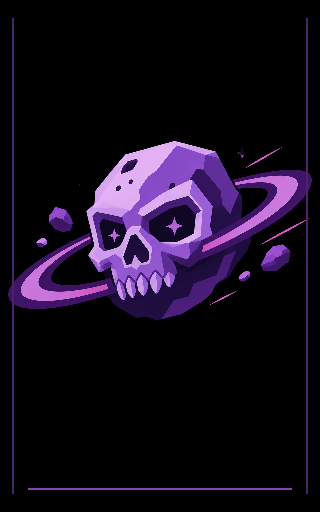
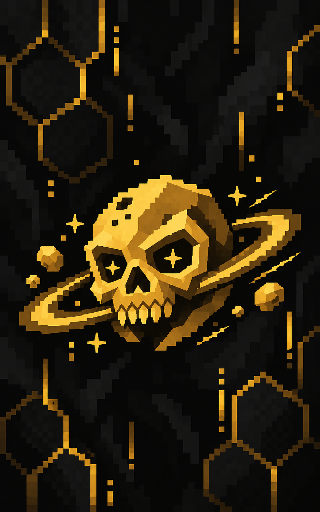
Add six-face gold owner cape and remove creator sigil

diff --git a/tools/GenerateCreatorCape.java b/tools/GenerateCreatorCape.java
@@ -6,65 +6,117 @@ import java.nio.file.Files;
 import java.nio.file.Path;
 import javax.imageio.ImageIO;
 
-/** Packs the original logo into vanilla cape UVs and bakes a seamless shimmer.
- * Run from the project root: java tools/GenerateCreatorCape.java
+/** Packs six cape faces into vanilla UVs and bakes a four-second gold shimmer.
+ * Run from the project root: java -Djava.awt.headless=true tools/GenerateCreatorCape.java
  */
 class GenerateCreatorCape {
     private static final int SCALE = 32;
     private static final int WIDTH = 10 * SCALE;
     private static final int HEIGHT = 16 * SCALE;
+    private static final Path SOURCES = Path.of("assets/creator");
+
+    private static BufferedImage resize(String name, int width, int height) throws Exception {
+        BufferedImage image = ImageIO.read(SOURCES.resolve(name).toFile());
+        BufferedImage result = new BufferedImage(width, height, BufferedImage.TYPE_INT_ARGB);
+        Graphics2D graphics = result.createGraphics();
+        graphics.setColor(Color.BLACK);
+        graphics.fillRect(0, 0, width, height);
+        graphics.setRenderingHint(RenderingHints.KEY_INTERPOLATION, RenderingHints.VALUE_INTERPOLATION_BICUBIC);
+        graphics.drawImage(image, 0, 0, width, height, null);
+        graphics.dispose();
+        return result;
+    }
+
+    private static BufferedImage ownerEdge() {
+        BufferedImage edge = new BufferedImage(SCALE, HEIGHT, BufferedImage.TYPE_INT_ARGB);
+        Graphics2D graphics = edge.createGraphics();
+        graphics.setColor(new Color(10, 9, 7));
+        graphics.fillRect(0, 0, SCALE, HEIGHT);
+        graphics.setColor(new Color(99, 65, 12));
+        graphics.fillRect(1, 0, 1, HEIGHT);
+        graphics.fillRect(SCALE - 2, 0, 1, HEIGHT);
+        // Explicit block glyphs avoid machine-dependent fonts. Five tall letters fill
+        // 484 of 512 pixels, with a 14-pixel margin at each end.
+        String[][] letters = {
+                {"01110", "11011", "11011", "11011", "11011", "11011", "01110"},
+                {"10001", "10001", "10001", "10101", "10101", "11011", "10001"},
+                {"10001", "11001", "11001", "10101", "10011", "10011", "10001"},
+                {"11111", "10000", "10000", "11110", "10000", "10000", "11111"},
+                {"11110", "10001", "10001", "11110", "10100", "10010", "10001"}
+        };
+        for (int letter = 0; letter < 5; letter++) {
+            int top = 14 + letter * 100;
+            for (int row = 0; row < 7; row++) for (int col = 0; col < 5; col++) {
+                if (letters[letter][row].charAt(col) != '1') continue;
+                graphics.setColor(new Color(95, 57, 7));
+                graphics.fillRect(7 + col * 4, top + row * 12 + 2, 4, 12);
+                for (int y = 0; y < 12; y++) {
+                    double shine = (Math.cos((top + row * 12 + y) * 0.025) + 1) / 2;
+                    graphics.setColor(new Color(199 + (int) (56 * shine), 139 + (int) (67 * shine), 27 + (int) (39 * shine)));
+                    graphics.fillRect(6 + col * 4, top + row * 12 + y, 4, 1);
+                }
+            }
+        }
+        graphics.dispose();
+        return edge;
+    }
+
+    private static BufferedImage cap(boolean bottom) {
+        BufferedImage image = new BufferedImage(WIDTH, SCALE, BufferedImage.TYPE_INT_ARGB);
+        Graphics2D graphics = image.createGraphics();
+        graphics.setColor(new Color(10, 9, 7));
+        graphics.fillRect(0, 0, WIDTH, SCALE);
+        graphics.setColor(new Color(108, 71, 12));
+        graphics.fillRect(0, 3, WIDTH, 2);
+        graphics.fillRect(0, SCALE - 5, WIDTH, 2);
+        for (int x = 0; x < WIDTH; x += 32) {
+            graphics.setColor(new Color(224, 163, 32));
+            int center = bottom ? SCALE - 13 : 8;
+            graphics.fillRect(x + 12, center, 8, 8);
+        }
+        graphics.dispose();
+        return image;
+    }
+
+    private static void pack(BufferedImage atlas, BufferedImage face, int u, int v, int frame) {
+        for (int y = 0; y < face.getHeight(); y++) for (int x = 0; x < face.getWidth(); x++) {
+            int rgb = face.getRGB(x, y);
+            int r = (rgb >>> 16) & 255, g = (rgb >>> 8) & 255, b = rgb & 255;
+            double phase = frame * Math.PI * 2 / 16 - x * 0.01125 - y * 0.00625;
+            double highlight = Math.pow((Math.cos(phase) + 1) / 2, 10);
+            // Gold brightens towards warm pale gold; charcoal remains untouched.
+            double strength = r > 90 && r > b * 1.4 && g > b * 1.2 ? 0.12 * highlight : 0;
+            r += (int) ((255 - r) * strength);
+            g += (int) ((226 - g) * strength);
+            b += (int) ((112 - b) * strength);
+            atlas.setRGB(u * SCALE + x, v * SCALE + y, 0xFF000000 | (r << 16) | (g << 8) | b);
+        }
+    }
 
     public static void main(String[] args) throws Exception {
-        BufferedImage logo = ImageIO.read(Path.of("assets/creator/original-logo.png").toFile());
-        BufferedImage panel = new BufferedImage(WIDTH, HEIGHT, BufferedImage.TYPE_INT_ARGB);
-        Graphics2D graphics = panel.createGraphics();
-        try {
-            graphics.setColor(Color.BLACK);
-            graphics.fillRect(0, 0, WIDTH, HEIGHT);
-            graphics.setRenderingHint(RenderingHints.KEY_INTERPOLATION, RenderingHints.VALUE_INTERPOLATION_BICUBIC);
-            // The supplied image has white outer margins. Use the original black-backed
-            // logo rectangle, preserving the artwork's aspect ratio and smooth details.
-            int left = 64, top = 258, right = 1197, bottom = 927;
-            int logoWidth = WIDTH - 16;
-            int logoHeight = (int) Math.round(logoWidth * (bottom - top) / (double) (right - left));
-            int logoY = (HEIGHT - logoHeight) / 2 - 25;
-            graphics.drawImage(logo, 8, logoY, 8 + logoWidth, logoY + logoHeight,
-                    left, top, right, bottom, null);
-            graphics.setColor(new Color(77, 34, 109));
-            graphics.fillRect(12, 18, 2, HEIGHT - 36);
-            graphics.fillRect(WIDTH - 14, 18, 2, HEIGHT - 36);
-            graphics.setColor(new Color(134, 69, 176));
-            graphics.fillRect(28, HEIGHT - 24, WIDTH - 56, 2);
-        } finally {
-            graphics.dispose();
-        }
-        ImageIO.write(panel, "png", Path.of("assets/creator/cape-panel.png").toFile());
+        BufferedImage front = resize("front.png", WIDTH, HEIGHT);
+        BufferedImage back = resize("back.png", WIDTH, HEIGHT);
+        BufferedImage edge = ownerEdge(), top = cap(false), bottom = cap(true);
+        ImageIO.write(front, "png", SOURCES.resolve("cape-panel.png").toFile());
+        ImageIO.write(edge, "png", SOURCES.resolve("left.png").toFile());
+        ImageIO.write(edge, "png", SOURCES.resolve("right.png").toFile());
+        ImageIO.write(top, "png", SOURCES.resolve("top.png").toFile());
+        ImageIO.write(bottom, "png", SOURCES.resolve("bottom.png").toFile());
         Path output = Path.of("src/main/resources/assets/axial_cosmetics/textures/entity");
         Files.createDirectories(output);
         for (int frame = 0; frame < 16; frame++) {
             BufferedImage atlas = new BufferedImage(64 * SCALE, 32 * SCALE, BufferedImage.TYPE_INT_ARGB);
-            Graphics2D background = atlas.createGraphics();
-            background.setColor(Color.BLACK);
-            background.fillRect(0, 0, atlas.getWidth(), atlas.getHeight());
-            background.dispose();
-            for (int y = 0; y < HEIGHT; y++) for (int x = 0; x < WIDTH; x++) {
-                int rgb = panel.getRGB(x, y);
-                int r = (rgb >>> 16) & 255, g = (rgb >>> 8) & 255, b = rgb & 255;
-                // Only the violet artwork catches the moving light; fabric stays black.
-                double phase = frame * Math.PI * 2 / 16 - x * 0.01125 - y * 0.00625;
-                double highlight = Math.pow((Math.cos(phase) + 1) / 2, 10);
-                double strength = b > 55 && b > g * 1.15 ? 0.16 * highlight : 0;
-                r += (int) ((255 - r) * strength);
-                g += (int) ((225 - g) * strength);
-                b += (int) ((255 - b) * strength);
-                int color = 0xFF000000 | (r << 16) | (g << 8) | b;
-                atlas.setRGB(SCALE + x, SCALE + y, color);
-                atlas.setRGB(12 * SCALE + x, SCALE + y, color);
-                if (x < SCALE) atlas.setRGB(x, SCALE + y, color);
-                if (x >= WIDTH - SCALE) atlas.setRGB(11 * SCALE + x - (WIDTH - SCALE), SCALE + y, color);
-                if (y < SCALE) atlas.setRGB(SCALE + x, y, color);
-                if (y >= HEIGHT - SCALE) atlas.setRGB(11 * SCALE + x, y - (HEIGHT - SCALE), color);
-            }
+            Graphics2D graphics = atlas.createGraphics();
+            graphics.setColor(Color.BLACK);
+            graphics.fillRect(0, 0, atlas.getWidth(), atlas.getHeight());
+            graphics.dispose();
+            // Cape model rotates its cuboid by 180 degrees: north is the outward back.
+            pack(atlas, back, 1, 1, frame);
+            pack(atlas, front, 12, 1, frame);
+            pack(atlas, edge, 0, 1, frame);
+            pack(atlas, edge, 11, 1, frame);
+            pack(atlas, top, 1, 0, frame);
+            pack(atlas, bottom, 11, 0, frame);
             String suffix = frame == 0 ? "" : "_" + frame;
             ImageIO.write(atlas, "png", output.resolve("creator_cape" + suffix + ".png").toFile());
         }

diff --git a/src/test/java/com/axial/cosmetics/client/CreatorCosmeticsTest.java b/src/test/java/com/axial/cosmetics/client/CreatorCosmeticsTest.java
@@ -24,7 +24,7 @@ class CreatorCosmeticsTest {
         assertTrue(CreatorCosmetics.hasCreatorCape(result));
     }
 
-    @Test void otherPlayersKeepTheirOwnCosmeticsAndDoNotGetSigil() {
+    @Test void otherPlayersKeepTheirOwnCosmetics() {
         var original = new SkinTextures(texture("skin"), texture("cape"), null, PlayerSkinType.WIDE, false);
         assertSame(original, CreatorCosmetics.applyCape(UUID.fromString("6a9cccc8-8e00-4a73-bd37-1121f81b0675"), original));
         assertFalse(CreatorCosmetics.hasCreatorCape(original));
@@ -54,12 +54,4 @@ class CreatorCosmeticsTest {
         assertEquals(15, CreatorCosmetics.frameIndex(-1));
     }
 
-    @Test void sigilTravelsAlongSquareRatherThanCuttingAcrossCorners() {
-        assertArrayEquals(new float[]{-5.5f, -5.5f}, CreatorSigilFeatureRenderer.perimeterPosition(0));
-        assertArrayEquals(new float[]{0, -5.5f}, CreatorSigilFeatureRenderer.perimeterPosition(20));
-        assertArrayEquals(new float[]{5.5f, -5.5f}, CreatorSigilFeatureRenderer.perimeterPosition(40));
-        assertArrayEquals(new float[]{5.5f, 5.5f}, CreatorSigilFeatureRenderer.perimeterPosition(80));
-        assertArrayEquals(new float[]{-5.5f, 5.5f}, CreatorSigilFeatureRenderer.perimeterPosition(120));
-        assertArrayEquals(CreatorSigilFeatureRenderer.perimeterPosition(0), CreatorSigilFeatureRenderer.perimeterPosition(160));
-    }
 }

diff --git a/src/main/java/com/axial/cosmetics/AxialCosmetics.java b/src/main/java/com/axial/cosmetics/AxialCosmetics.java
@@ -182,7 +182,6 @@ public class AxialCosmetics implements ClientModInitializer {
             LivingEntityFeatureRendererRegistrationCallback.EVENT.register((entityType, entityRenderer, registrationHelper, context) -> {
                 if (entityRenderer instanceof PlayerEntityRenderer playerRenderer) {
                     registrationHelper.register(new CosmeticFeatureRenderer(playerRenderer, COSMETIC_MANAGER));
-                    registrationHelper.register(new com.axial.cosmetics.client.CreatorSigilFeatureRenderer(playerRenderer));
                 }
             });
         } catch (Throwable t) {

diff --git a/assets/creator/README.md b/assets/creator/README.md
@@ -1,13 +1,39 @@
 # Creator cape
 
-`original-logo.png` is the owner's original supplied skull-and-orbit logo,
-retained without redrawing or pixel-art conversion. `cape-panel.png` places that
-artwork on black fabric with restrained violet trim. The white outer margins
-are omitted when packing the supplied logo; its aspect ratio is preserved.
+The cape has six independently authored faces:
+
+- `front.png`: the owner's supplied black-and-gold skull design, preserved as received.
+- `back.png`: matching black-and-gold diamond/star reverse, created with built-in image generation using the front as its reference.
+- `left.png` and `right.png`: gold OWNER block lettering arranged vertically over almost the full 512-pixel edge length.
+- `top.png` and `bottom.png`: black fabric with gold borders and repeating square details.
+
+`cape-panel.png` is the front resampled to the in-game face size (320 × 512).
+The original purple `original-logo.png` is retained as a previous source asset.
 
 Run `java -Djava.awt.headless=true tools/GenerateCreatorCape.java` from the project
-root to rebuild the panel and sixteen shimmer frames under
+root to rebuild the side/end panels and sixteen gold shimmer frames under
 `src/main/resources/assets/axial_cosmetics/textures/entity/creator_cape*.png`.
-Each cape face is 320 × 512 pixels with smooth image resampling.
-The client selects one frame every five ticks, giving a four-second loop.
-Normal vanilla cape movement and visibility still apply.
+The main faces are 320 × 512, side faces 32 × 512, and end faces 320 × 32.
+The client selects one frame every five ticks for a four-second loop.
+Only gold artwork catches the light; charcoal fabric stays dark.
+Normal vanilla cape movement and visibility still apply. The sigil is removed.
+
+UV coordinates in vanilla 64 × 32 units (each unit is 32 pixels):
+front/inward `(12,1,10,16)`, back/outward `(1,1,10,16)`,
+sides `(0,1,1,16)` and `(11,1,1,16)`,
+top `(1,0,10,1)`, bottom `(11,0,10,1)`.
+
+## Reverse panel generation prompt
+
+Create only the reverse/back flat texture panel for the Minecraft cape whose
+FRONT is the supplied reference. Portrait rectangle aspect ratio 5:8. Match the
+reference exactly in palette and pixel cluster style: black and very dark charcoal
+angular woven faceted background, warm metallic gold stepped diamond outlines at
+upper and lower corners, scattered tiny square gold sparks and short vertical
+gold segments. Keep it elegant and complementary. In the center use a smaller gold
+angular diamond medallion with a tiny four-point gold star inside, rather than
+repeating the skull. NO skull, NO text, NO letters, NO white, NO purple. Flat 2D
+production texture, no folds, no perspective, no model or mockup, image fills the
+entire rectangle edge to edge. Crisp pixel clusters matching the reference. Keep
+all central ornamentation within the middle 70 percent width. This panel will be
+used for the reverse side of the same cape.
